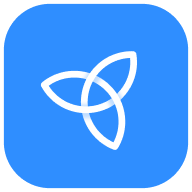
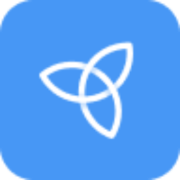
feat: 🎸 update image

Changed region(s): [[0.1944, 0.2222, 0.75, 0.8056], [0.0, 0.0, 1.0, 1.0]]

diff --git a/1000h-portal/nuxt.config.ts b/1000h-portal/nuxt.config.ts
@@ -23,15 +23,21 @@ export default defineNuxtConfig({
         },
         {
           rel: "icon",
-          type: "image/png",
-          sizes: "24x24",
-          href: "/portal-static/images/favicon-24x24.png",
+          type: "image/x-icon",
+          sizes: "48x48",
+          href: "/portal-static/images/favicon.ico",
         },
         {
           rel: "icon",
           type: "image/png",
-          sizes: "12x12",
-          href: "/portal-static/images/favicon-12x12.png",
+          sizes: "32x32",
+          href: "/portal-static/images/favicon-32x32.png",
+        },
+        {
+          rel: "icon",
+          type: "image/png",
+          sizes: "16x16",
+          href: "/portal-static/images/favicon-16x16.png",
         },
       ],
       script: [],
